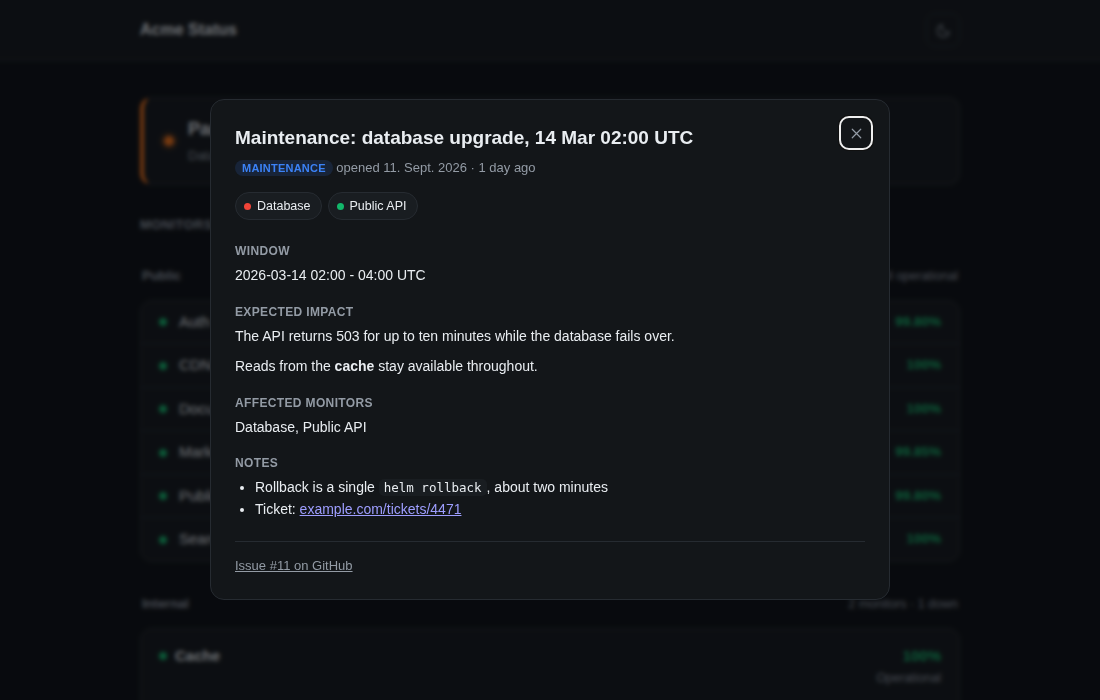
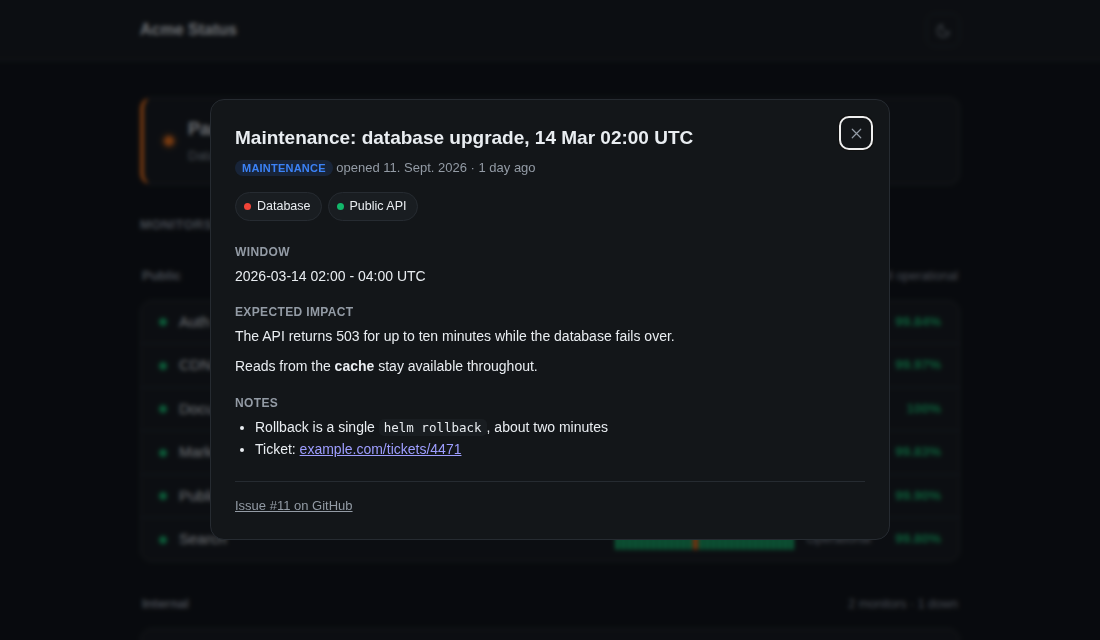
fix: do not list affected monitors twice in an incident
The chips name them already, so the section the maintenance template writes
repeated it word for word. That section is dropped from the description when
the chips resolved, and kept when none did, so a name that matches no monitor
is still readable.

diff --git a/site/app.js b/site/app.js
@@ -271,8 +271,9 @@ function inline(target, text) {
   target.append(text.slice(last));
 }
 
-function renderBody(container, body) {
+function renderBody(container, body, skip = []) {
   let list = null;
+  let skipping = false;
   for (const raw of body.split('\n')) {
     const line = raw.trim();
     if (!line) {
@@ -280,10 +281,13 @@ function renderBody(container, body) {
       continue;
     }
     if (/^#{1,6}\s/.test(line)) {
+      const heading = line.replace(/^#{1,6}\s*/, '');
       list = null;
-      container.append(el('h4', 'body-heading', line.replace(/^#{1,6}\s*/, '')));
+      skipping = skip.includes(heading.toLowerCase());
+      if (!skipping) container.append(el('h4', 'body-heading', heading));
       continue;
     }
+    if (skipping) continue;
     if (/^[-*]\s/.test(line)) {
       if (!list) container.append((list = el('ul', 'body-list')));
       const item = el('li');
@@ -339,8 +343,10 @@ function openIncident(number) {
     detailBody.append(chips);
   }
 
+  // The chips above already name the monitors, so the section the maintenance
+  // template writes would only repeat them. It stays when nothing resolved.
   const section = el('div', 'detail-section');
-  if (incident.body) renderBody(section, incident.body);
+  if (incident.body) renderBody(section, incident.body, affected.length ? ['affected monitors'] : []);
   else section.append(el('p', 'detail-empty', 'No description was given.'));
   detailBody.append(section);
 
